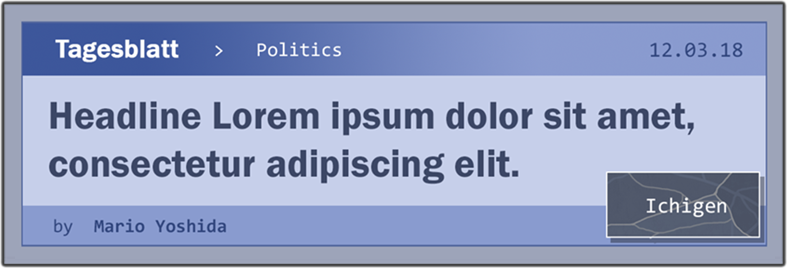
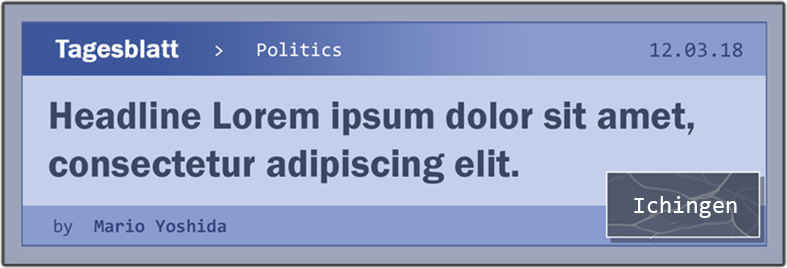
Typo corrections
on the englisch and german tutorial image and in the End text

Changed region(s): [[0.7929, 0.7164, 0.9454, 0.8358]]

diff --git a/Assets/Scripts/Windows/EndScreenWindow.cs b/Assets/Scripts/Windows/EndScreenWindow.cs
@@ -21,7 +21,7 @@ public class EndScreenWindow : Window {
         } else {
             if (PlayerPrefs.GetString("language") == "german") {
                 text.text = "Mitarbeiter Evaluation von FactcheckerIn ID: " + GameManager.Instance.PlayerID + ". \n\nSie haben " + GameManager.Instance.correctMarkedArticles +
-                    " Nachrichten korrekt auf ihren Warheitsgehalt beurteilt.\nDagegen haben Sie " + GameManager.Instance.wronglyMarkedArticlesAsTrue +
+                    " Nachrichten korrekt auf ihren Wahrheitsgehalt beurteilt.\nDagegen haben Sie " + GameManager.Instance.wronglyMarkedArticlesAsTrue +
                     " falsche Nachrichten als wahr\nund " + GameManager.Instance.wronglyMarkedArticlesAsFalse +
                     " wahre Nachrichten als falsch eingestuft.";
             } else {
